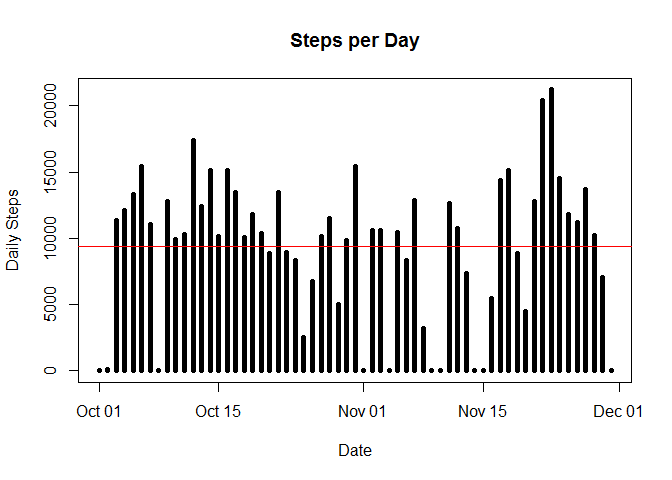
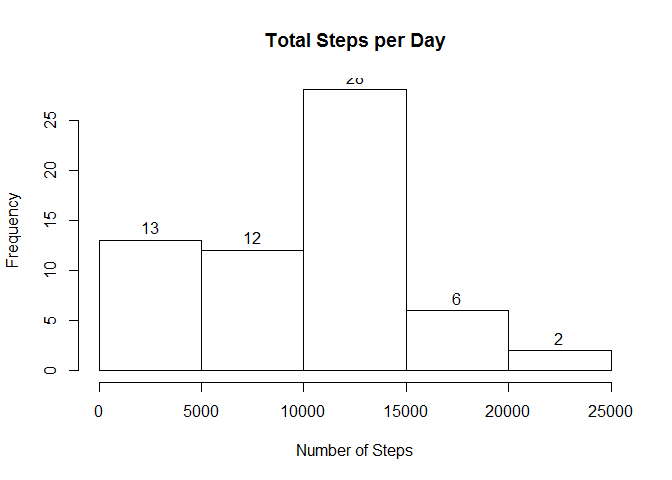
Committed for Week2 Peer graded assignment after fixing histograms

diff --git a/PA1_template.html b/PA1_template.html
@@ -148,15 +148,8 @@ actData$date &lt;- as.Date(actData$date,format = &quot;%Y-%m-%d&quot;)</code></p
 <h3>Objective 2 - Histogram of the total number of steps taken each day</h3>
 <pre class="r"><code>dailySummary &lt;- summarise(group_by(actData, date), sum(steps, na.rm = TRUE ))
 names(dailySummary) &lt;- c(&quot;Date&quot;, &quot;Steps&quot;)
-plot(x = dailySummary$Date, 
-        y = dailySummary$Steps, 
-        xlab = &quot;Date&quot;, 
-        ylab = &quot;Daily Steps&quot;, 
-        main = &quot;Steps per Day&quot;, 
-        type = &quot;h&quot;, 
-        lwd = 5)
-abline(h=mean(dailySummary$Steps, na.rm=TRUE), col = &quot;red&quot;)</code></pre>
[1 lines of base64/hex data omitted]
+hist(dailySummary$Steps, main = &quot;Total Steps per Day&quot;, xlab = &quot;Number of Steps&quot;, ylab = &quot;Frequency&quot;, labels = TRUE)</code></pre>
[1 lines of base64/hex data omitted]
 </div>
 <div id="objective-3---mean-and-median-steps-per-day" class="section level3">
 <h3>Objective 3 - Mean and Median Steps per day</h3>
@@ -202,25 +195,18 @@ actDataImputed[idxNA,&quot;steps&quot;] &lt;- actDataImputed[idxNA,&quot;Steps&q
 <h3>Objective 7 - Histogram of the total number of steps taken each day after missing values are imputed</h3>
 <pre class="r"><code>dailySummaryImputed &lt;- summarise(group_by(actDataImputed, date), sum(steps, na.rm = TRUE ))
 names(dailySummaryImputed) &lt;- c(&quot;Date&quot;, &quot;Steps&quot;)
-plot(x = dailySummaryImputed$Date, 
-     y = dailySummaryImputed$Steps, 
-     xlab = &quot;Date&quot;, 
-     ylab = &quot;Daily Steps&quot;, 
-     main = &quot;Steps per Day with Missing Values imputed&quot;, 
-     type = &quot;h&quot;, 
-     lwd = 5)
-abline(h=mean(dailySummaryImputed$Steps, na.rm=TRUE), col = &quot;red&quot;)</code></pre>
[1 lines of base64/hex data omitted]
+hist(dailySummaryImputed$Steps, main = &quot;Total Steps per Day with NA values Imputed&quot;, xlab = &quot;Number of Steps&quot;, ylab = &quot;Frequency&quot;, labels = TRUE)</code></pre>
[1 lines of base64/hex data omitted]
 <pre class="r"><code>meanStepsPerDayImputed &lt;- mean(dailySummaryImputed$Steps, na.rm = TRUE)
 medianStepsPerDayImputed &lt;- median(dailySummaryImputed$Steps, na.rm = TRUE)</code></pre>
-<p><strong>New Mean steps</strong> per day with imputed data: 9354.2295082<br />
-<strong>New Median steps</strong> per day with imputed data: 10395</p>
+<p><strong>New Mean steps</strong> per day with imputed data: 10766.19<br />
+<strong>New Median steps</strong> per day with imputed data: 10766.19</p>
 </div>
 <div id="objective-8---panel-plot-comparing-the-average-number-of-steps-taken-per-5-minute-interval-across-weekdays-and-weekends" class="section level3">
 <h3>Objective 8 - Panel plot comparing the average number of steps taken per 5-minute interval across weekdays and weekends</h3>
 <pre class="r"><code>weekdaysVector &lt;- c(&quot;Monday&quot;, &quot;Tuesday&quot;, &quot;Wednesday&quot;, &quot;Thursday&quot;, &quot;Friday&quot;)
 actDataImputed$WeekDayOrEnd &lt;- factor((weekdays(actDataImputed$date) %in% weekdaysVector), 
-                                      levels = c(FALSE,TRUE), 
+                                      levels = c(TRUE,FALSE), 
                                       labels = c(&quot;Weekday&quot;,&quot;Weekend&quot;))
 
 actDataImputedByWeekDayEndByInt &lt;- actDataImputed %&gt;% group_by(WeekDayOrEnd, interval) %&gt;% summarize(MeanSteps = mean(steps))
@@ -242,7 +228,7 @@ plot(x = actDataImputedByWeekendByInt$interval,
                     ylab = &quot;Average Steps&quot;, 
                     main = &quot;Weekend&quot;, 
                     type = &quot;l&quot;)</code></pre>
[2 lines of base64/hex data omitted]
 </div>
 </div>
 

diff --git a/PA1_template.md b/PA1_template.md
@@ -29,14 +29,7 @@ actData$date <- as.Date(actData$date,format = "%Y-%m-%d")
 ```r
 dailySummary <- summarise(group_by(actData, date), sum(steps, na.rm = TRUE ))
 names(dailySummary) <- c("Date", "Steps")
-plot(x = dailySummary$Date, 
-        y = dailySummary$Steps, 
-        xlab = "Date", 
-        ylab = "Daily Steps", 
-        main = "Steps per Day", 
-        type = "h", 
-        lwd = 5)
-abline(h=mean(dailySummary$Steps, na.rm=TRUE), col = "red")
+hist(dailySummary$Steps, main = "Total Steps per Day", xlab = "Number of Steps", ylab = "Frequency", labels = TRUE)
 ```
 
 ![](PA1_template_files/figure-html/obj2-1.png)<!-- -->
@@ -95,14 +88,7 @@ actDataImputed[idxNA,"steps"] <- actDataImputed[idxNA,"Steps"]
 ```r
 dailySummaryImputed <- summarise(group_by(actDataImputed, date), sum(steps, na.rm = TRUE ))
 names(dailySummaryImputed) <- c("Date", "Steps")
-plot(x = dailySummaryImputed$Date, 
-     y = dailySummaryImputed$Steps, 
-     xlab = "Date", 
-     ylab = "Daily Steps", 
-     main = "Steps per Day with Missing Values imputed", 
-     type = "h", 
-     lwd = 5)
-abline(h=mean(dailySummaryImputed$Steps, na.rm=TRUE), col = "red")
+hist(dailySummaryImputed$Steps, main = "Total Steps per Day with NA values Imputed", xlab = "Number of Steps", ylab = "Frequency", labels = TRUE)
 ```
 
 ![](PA1_template_files/figure-html/obj7-1.png)<!-- -->
@@ -111,15 +97,15 @@ abline(h=mean(dailySummaryImputed$Steps, na.rm=TRUE), col = "red")
 meanStepsPerDayImputed <- mean(dailySummaryImputed$Steps, na.rm = TRUE)
 medianStepsPerDayImputed <- median(dailySummaryImputed$Steps, na.rm = TRUE)
 ```
-**New Mean steps** per day with imputed data: 9354.2295082  
-**New Median steps** per day with imputed data: 10395
+**New Mean steps** per day with imputed data: 10766.19  
+**New Median steps** per day with imputed data: 10766.19
 
 ### Objective 8 - Panel plot comparing the average number of steps taken per 5-minute interval across weekdays and weekends
 
 ```r
 weekdaysVector <- c("Monday", "Tuesday", "Wednesday", "Thursday", "Friday")
 actDataImputed$WeekDayOrEnd <- factor((weekdays(actDataImputed$date) %in% weekdaysVector), 
-                                      levels = c(FALSE,TRUE), 
+                                      levels = c(TRUE,FALSE), 
                                       labels = c("Weekday","Weekend"))
 
 actDataImputedByWeekDayEndByInt <- actDataImputed %>% group_by(WeekDayOrEnd, interval) %>% summarize(MeanSteps = mean(steps))
